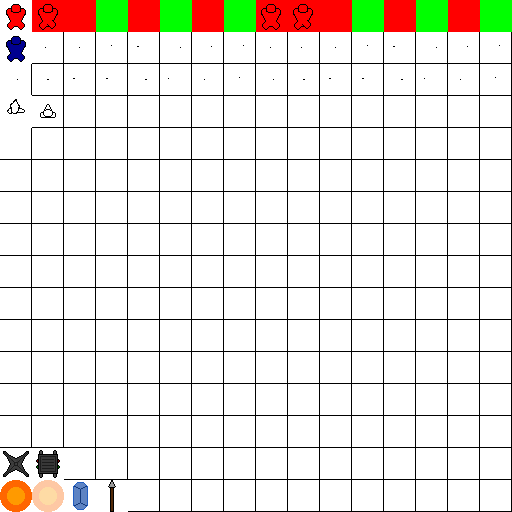
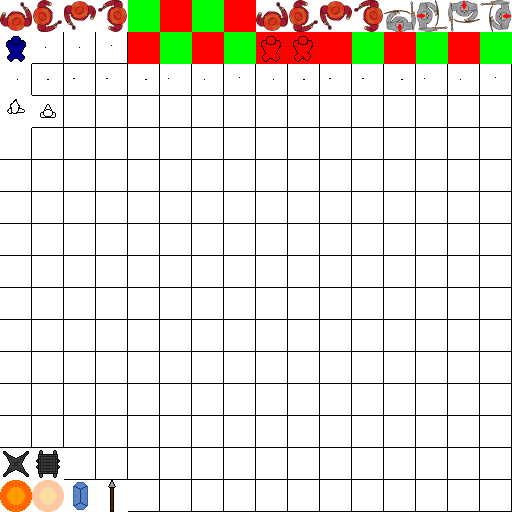
added Gurke's player class images (Mage, Warrior)

Changed region(s): [[0.0, 0.0, 1.0, 0.125]]

diff --git a/Game++ Tile/src/de/nerogar/game/entity/Entity.java b/Game++ Tile/src/de/nerogar/game/entity/Entity.java
@@ -9,9 +9,11 @@ import de.nerogar.game.graphics.TextureBank;
 public abstract class Entity {
 
 	public static final int DIR_UP = 0;
-	public static final int DIR_DOWN = 1;
-	public static final int DIR_LEFT = 2;
-	public static final int DIR_RIGHT = 4;
+	public static final int DIR_RIGHT = 1;
+	public static final int DIR_DOWN = 2;
+	public static final int DIR_LEFT = 3;
+	private int facingDir;
+	private boolean turnable;
 
 	public static int MAX_ID;
 	public int id;
@@ -24,7 +26,6 @@ public abstract class Entity {
 
 	public Vector pos;
 	public Vector serverPos;
-	public int facingDir;
 
 	public Vector dimension;
 
@@ -49,7 +50,7 @@ public abstract class Entity {
 	public static float tileTextureSize = 1f / textureSize * 32f;
 	public static int tilesOnTexture = 16;
 
-	public Entity(Map map, Vector pos, Vector dimension, int health) {
+	public Entity(Map map, Vector pos, Vector dimension, int health, boolean turnable) {
 		id = getNewID();
 
 		this.map = map;
@@ -58,18 +59,21 @@ public abstract class Entity {
 		this.dimension = dimension;
 		this.maxHealth = health;
 		this.health = health;
+		this.turnable = turnable;
 		this.speedmult = 1.0f;
 	}
 
 	public void moveX(float distance) {
 		if (!map.isColliding(pos.clone().addX(distance), dimension, ignoreWalls)) {
 			pos.addX(distance);
+			facingDir = (distance > 0) ? DIR_RIGHT : DIR_LEFT;
 		}
 	}
 
 	public void moveY(float distance) {
 		if (!map.isColliding(pos.clone().addY(distance), dimension, ignoreWalls)) {
 			pos.addY(distance);
+			facingDir = (distance > 0) ? DIR_DOWN : DIR_UP;
 		}
 	}
 
@@ -115,8 +119,9 @@ public abstract class Entity {
 		TextureBank.instance.bindTexture("entity.png", 0);
 		TextureBank.instance.bindTexture("entity normal.png", 1);
 
-		int tilePosX = textureID % tilesOnTexture;
-		int tilePosY = textureID / tilesOnTexture;
+		int tId = turnable ? textureID + facingDir : textureID;
+		int tilePosX = tId % tilesOnTexture;
+		int tilePosY = tId / tilesOnTexture;
 
 		glBegin(GL_QUADS);
 
@@ -147,4 +152,5 @@ public abstract class Entity {
 	public void renderAfterShader() {
 		
 	}
+
 }

diff --git a/Game++ Tile/src/de/nerogar/game/graphics/gui/GClassSelection.java b/Game++ Tile/src/de/nerogar/game/graphics/gui/GClassSelection.java
@@ -38,9 +38,9 @@ public class GClassSelection extends Gui {
 		buttonCancel = new GEButton(new Vector(posX - (Map.TILE_RENDER_SIZE * 4 + 16f), posY + 150), new Vector(Map.TILE_RENDER_SIZE * 4, Map.TILE_RENDER_SIZE), "Abort");
 
 		image1 = new GEImage(new Vector(posX - 304, posY - 50), new Vector(128, 128), "entity.png", new Vector(0, 0), new Vector(1, 1));
-		image2 = new GEImage(new Vector(posX - 144, posY - 50), new Vector(128, 128), "entity.png", new Vector(0, 1), new Vector(1, 1));
-		image3 = new GEImage(new Vector(posX + 16, posY - 50), new Vector(128, 128), "entity.png", new Vector(1, 0), new Vector(1, 1));
-		image4 = new GEImage(new Vector(posX + 160, posY - 50), new Vector(128, 128), "entity.png", new Vector(1, 1), new Vector(1, 1));
+		image2 = new GEImage(new Vector(posX - 144, posY - 50), new Vector(128, 128), "entity.png", new Vector(4, 0), new Vector(1, 1));
+		image3 = new GEImage(new Vector(posX + 16, posY - 50), new Vector(128, 128), "entity.png", new Vector(8, 0), new Vector(1, 1));
+		image4 = new GEImage(new Vector(posX + 160, posY - 50), new Vector(128, 128), "entity.png", new Vector(12, 0), new Vector(1, 1));
 
 		text1 = new GEText(new Vector(posX - 304, posY + 86), new Vector(128, 16), "Engineer");
 		text2 = new GEText(new Vector(posX - 144, posY + 86), new Vector(128, 16), "Healer");

diff --git a/Game++ Tile/src/de/nerogar/game/entity/EntityPlayer.java b/Game++ Tile/src/de/nerogar/game/entity/EntityPlayer.java
@@ -1,12 +1,12 @@
 package de.nerogar.game.entity;
 
-
 import org.lwjgl.input.Keyboard;
 import org.lwjgl.input.Mouse;
 import org.lwjgl.opengl.Display;
 
 import de.nerogar.game.*;
 import de.nerogar.game.entity.playerClass.*;
+import de.nerogar.game.graphics.Light;
 import de.nerogar.game.network.*;
 import de.nerogar.game.weapon.Weapon;
 
@@ -18,11 +18,11 @@ public class EntityPlayer extends Entity {
 	private float nextEnergyRestore;
 
 	public EntityPlayer(Map map, Vector pos) {
-		super(map, pos, new Vector(1.0f), 100);
+		super(map, pos, new Vector(1.0f), 100, true);
 		//playerClass = new Mage(this);
 		faction = FACTION_PLAYER;
 
-		//light = new Light(0, 0, 5f,2.0f);
+		light = new Light(new Vector(), 4f, 1.0f);
 	}
 
 	@Override

diff --git a/Game++ Tile/src/de/nerogar/game/entity/playerClass/PlayerClass.java b/Game++ Tile/src/de/nerogar/game/entity/playerClass/PlayerClass.java
@@ -17,7 +17,7 @@ public abstract class PlayerClass {
 	public static final int MAGE = 3;
 	public static final int WARRIOR = 4;
 
-	public PlayerClass(EntityPlayer player, int maxHealth, int maxEnergy, float moveSpeed) {
+	public PlayerClass(EntityPlayer player, int maxHealth, int maxEnergy, float moveSpeed, int textureID) {
 		weapons = new Weapon[3];
 		this.player = player;
 		this.maxHealth = maxHealth;
@@ -28,6 +28,7 @@ public abstract class PlayerClass {
 		player.maxHealth = maxHealth;
 		player.moveSpeed = moveSpeed;
 		this.weaponUpgrades = new Weapon[3][3];//3 weapons, 3 level
+		player.textureID = textureID;
 		initWeaponsUpgrades();
 
 		setWeaponLevel(0, 0);

diff --git a/Game++ Tile/src/de/nerogar/game/entity/EntityWeapon.java b/Game++ Tile/src/de/nerogar/game/entity/EntityWeapon.java
@@ -8,11 +8,11 @@ public abstract class EntityWeapon extends Entity {
 	public Entity sender;
 
 	public EntityWeapon(Map map, Vector pos) {
-		super(map, pos, new Vector(), 0);
+		super(map, pos, new Vector(), 0, false);
 	}
 
 	public EntityWeapon(Entity sender, Map map, Vector pos, Vector dimension, int damage) {
-		super(map, pos, dimension, damage);
+		super(map, pos, dimension, damage, false);
 		faction = sender.faction;
 		resistDamage = true;
 

diff --git a/Game++ Tile/src/de/nerogar/game/entity/EntityEnemy.java b/Game++ Tile/src/de/nerogar/game/entity/EntityEnemy.java
@@ -11,7 +11,7 @@ public abstract class EntityEnemy extends Entity {
 	public float maxDamageCooldown;
 
 	public EntityEnemy(Map map, Vector pos, Vector dimension, int health, float damageCooldown) {
-		super(map, pos, dimension, health);
+		super(map, pos, dimension, health, false);
 		this.maxDamageCooldown = damageCooldown;
 		faction = FACTION_MOB;
 	}

diff --git a/Game++ Tile/src/de/nerogar/game/entity/EntityEnergyDrop.java b/Game++ Tile/src/de/nerogar/game/entity/EntityEnergyDrop.java
@@ -6,7 +6,7 @@ import de.nerogar.game.Vector;
 public class EntityEnergyDrop extends Entity {
 
 	public EntityEnergyDrop(Map map, Vector pos) {
-		super(map, pos, new Vector(0.3f), 0);
+		super(map, pos, new Vector(0.3f), 0, false);
 		resistDamage = true;
 		moveSpeed = 1.0f;
 		textureID = 16 * 15 + 2;

diff --git a/Game++ Tile/src/de/nerogar/game/entity/playerClass/Warrior.java b/Game++ Tile/src/de/nerogar/game/entity/playerClass/Warrior.java
@@ -6,7 +6,7 @@ import de.nerogar.game.weapon.*;
 public class Warrior extends PlayerClass {
 
 	public Warrior(EntityPlayer player) {
-		super(player, 100, 100, 3.0f);
+		super(player, 100, 100, 3.0f, 12);
 	}
 
 	@Override

diff --git a/Game++ Tile/src/de/nerogar/game/entity/playerClass/Engineer.java b/Game++ Tile/src/de/nerogar/game/entity/playerClass/Engineer.java
@@ -6,7 +6,7 @@ import de.nerogar.game.weapon.*;
 public class Engineer extends PlayerClass {
 
 	public Engineer(EntityPlayer player) {
-		super(player, 100, 50, 2.5f);
+		super(player, 100, 50, 2.5f, 0);
 	}
 
 	@Override

diff --git a/Game++ Tile/src/de/nerogar/game/entity/playerClass/Healer.java b/Game++ Tile/src/de/nerogar/game/entity/playerClass/Healer.java
@@ -6,7 +6,7 @@ import de.nerogar.game.weapon.*;
 public class Healer extends PlayerClass {
 
 	public Healer(EntityPlayer player) {
-		super(player, 100, 100, 3.0f);
+		super(player, 100, 100, 3.0f, 4);
 	}
 
 	@Override

diff --git a/Game++ Tile/src/de/nerogar/game/entity/playerClass/Mage.java b/Game++ Tile/src/de/nerogar/game/entity/playerClass/Mage.java
@@ -6,7 +6,7 @@ import de.nerogar.game.weapon.*;
 public class Mage extends PlayerClass {
 
 	public Mage(EntityPlayer player) {
-		super(player, 100, 100, 3.0f);
+		super(player, 100, 100, 3.0f, 8);
 	}
 
 	@Override
